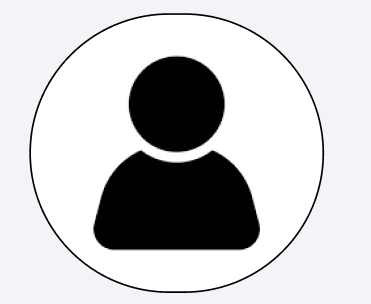
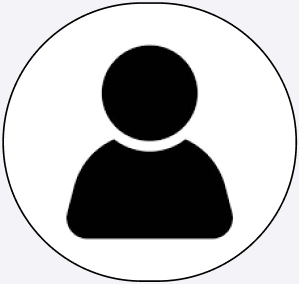
replace user image

diff --git a/app/assets/stylesheets/pages_about.css b/app/assets/stylesheets/pages_about.css
@@ -64,7 +64,7 @@
 }
 
 .team-image-about {
-  width: 80px;
+  width: 100px;
   height: 80px;
   border-radius: 50%;
   margin-bottom: 10px;
@@ -87,6 +87,6 @@
 }
 
 .social-image-about {
-  width: 150px;
+  width: 500px;
   height: auto;
 }
